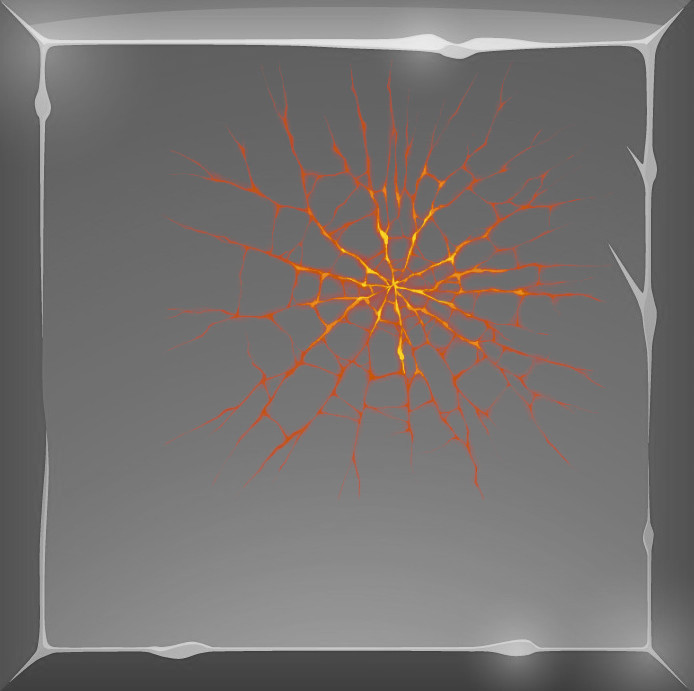
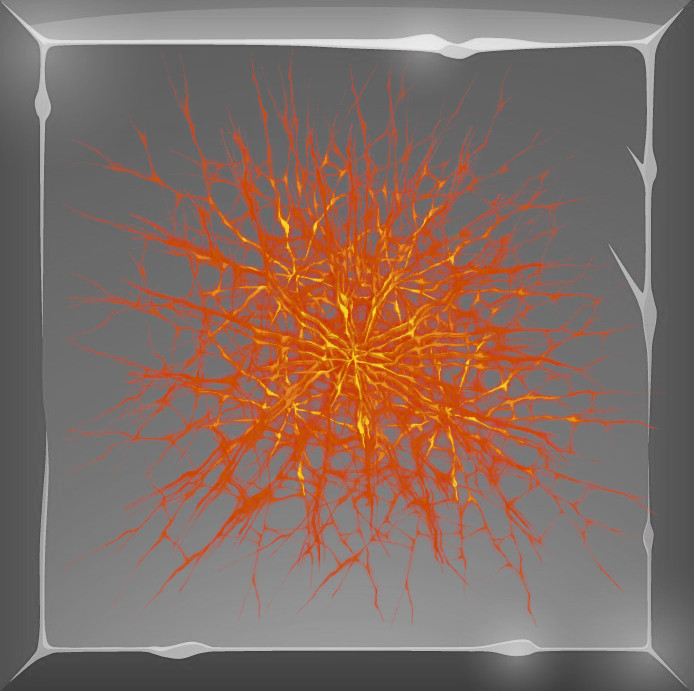
v0.3 - fixed bugs

diff --git a/animation_game.js b/animation_game.js
@@ -9,7 +9,10 @@ const elms_to_picture = {
     "5": "images/gem_silver.png",
     "6": "images/gem_gold.png",
     "-1": "images/ruby.png",
-    "gem": "images/gem.png"
+    "gem": "images/gem.png",
+    "bonus_1": "images/bonus_1.png",
+    "bonus_2": "images/bonus_2.png",
+    "bonus_3": "images/bonus_3.png"
 };
 const elms_shield_to_picture = ["images/shield_0.jpg","images/shield_1.jpg","images/shield_2.jpg","images/shield_3.jpg"];
 
@@ -17,159 +20,40 @@ const shield_field_div = document.getElementById("shield_field");
 const gems_field_div = document.getElementById("gems_field");
 const animation_field_div = document.getElementById("animation_field");
 var field = {};
-var gems_field_show = [];
-var shield_field_show = [];
 var tile_size = 0;
-const wait_time = 1000;
+const wait_time = 300;
 
 var can_play = false;
 
 function update_tile_size() {
     if (field["gems_field"] != undefined) {
         tile_size = Math.min(window.innerHeight / field["n"], window.innerWidth / field["m"]);
-        for (var i = 0; i < gems_field_show.length; ++i) {
-            for (var j = 0; j < gems_field_show[0].length; ++j) {
-                gems_field_show[i][j].style.width = `${tile_size}px`;
-                gems_field_show[i][j].style.height = `${tile_size}px`;
-                gems_field_show[i][j].style.top = `${i * tile_size}px`;
-                gems_field_show[i][j].style.left = `${j * tile_size}px`;
-                shield_field_show[i][j].style.width = `${tile_size}px`;
-                shield_field_show[i][j].style.height = `${tile_size}px`;
-                shield_field_show[i][j].style.top = `${i * tile_size}px`;
-                shield_field_show[i][j].style.left = `${j * tile_size}px`;
-            }
-        }
     }
 }
 
-function _add_picture_from_empty_help(elm, i, j) {
-    elm.style.width = `${tile_size}px`;
-    elm.style.height = `${tile_size}px`;
-    elm.style.top = `${i * tile_size}px`;
-    elm.style.left = `${j * tile_size}px`;
-}
-function add_picture_from_empty(image, i, j, where) {
-    elm = document.createElement("img");
-    elm.src = image;
-    elm.style.width = `${0}px`;
-    elm.style.height = `${0}px`;
-    elm.style.top = `${i * tile_size + tile_size / 2}px`;
-    elm.style.left = `${j * tile_size + tile_size / 2}px`;
-    where.appendChild(elm);
-    return elm;
-}
-
-function _add_picture_from_top_help(elm, i) {
-    elm.style.top = `${i * tile_size}px`;
-}
-function add_picture_from_top(image, i, j, i2, where) {
-    elm = document.createElement("img");
-    elm.src = image;
-    elm.style.width = `${tile_size}px`;
-    elm.style.height = `${tile_size}px`;
-    elm.style.top = `${tile_size * i2}px`;
-    elm.style.left = `${j * tile_size}px`;
-    where.appendChild(elm);
-    return elm;
-}
-
-function _remove_picture(elm, where) {
-    where.removeChild(elm);
-}
-function remove_picture_to_empty(elm, i, j, where) {
-    elm.style.width = `${0}px`;
-    elm.style.height = `${0}px`;
-    elm.style.top = `${i * tile_size + tile_size / 2}px`;
-    elm.style.left = `${j * tile_size + tile_size / 2}px`;
-    setTimeout(() => _remove_picture(elm, where), wait_time * 10);
-}
-function remove_picture_to_bottom(elm, where) {
-    elm.style.top = `${field['n'] * tile_size}px`;
-    setTimeout(() => _remove_picture(elm, where), wait_time * 10);
-}
-
-function update_field() {
-    var crt = recount_field(field);
-    if (crt["triple_flag"] == 1) {
-        move_list = crt["move_list"];
-        console.log(JSON.stringify(move_list))
-        score_list = crt["score_add"];
-        console.log(move_list);
-        for (var i = 0; i < move_list.length; ++i) {
-            if (move_list[i][1][0] == -1 && move_list[i][1][1] == -1) {
-                remove_picture_to_empty(gems_field_show[move_list[i][0][0]][move_list[i][0][1]], move_list[i][0][0], move_list[i][0][1], gems_field_div);
-                gems_field_show[move_list[i][0][0]][move_list[i][0][1]] = undefined;
-            } else if (move_list[i][0][0] == -1 && move_list[i][0][1] == -1) {
-                gems_field_show[move_list[i][1][0]][move_list[i][1][1]] = add_picture_from_empty(elms_to_picture[crt["field"]["gems_field"][move_list[i][1][0]][move_list[i][1][1]].toString()], move_list[i][1][0], move_list[i][1][1], gems_field_div);
-            } else if (move_list[i][1][0] <= -1) {
-                remove_picture_to_bottom(gems_field_show[move_list[i][0][0]][move_list[i][0][1]], gems_field_div);
-                gems_field_show[move_list[i][0][0]][move_list[i][0][1]] = undefined;
-            } else if (move_list[i][0][0] <= -1) {
-                gems_field_show[move_list[i][1][0]][move_list[i][1][1]] = add_picture_from_top(elms_to_picture[crt["field"]["gems_field"][move_list[i][1][0]][move_list[i][1][1]].toString()], move_list[i][1][0], move_list[i][1][1], move_list[i][0][0], gems_field_div);
-            } else {
-                gems_field_show[move_list[i][0][0]][move_list[i][0][1]].style.top = `${(move_list[i][1][0] * tile_size)}px`;
-                gems_field_show[move_list[i][1][0]][move_list[i][1][1]] = gems_field_show[move_list[i][0][0]][move_list[i][0][1]];
-                gems_field_show[move_list[i][0][0]][move_list[i][0][1]] = undefined;
-            }
-        }
-        field = crt["field"];
-        setTimeout(() => update_tile_size(), wait_time);
-        setTimeout(() => update_field(), wait_time);
-    } else if (crt["triple_flag"] == 0) {
-        can_play = true;
-    } else if (crt["triple_flag"] == -1) {
-        field_2 = update_field_from_impossible_to_playable(field);
-        for (var i = 0; i < field["n"]; ++i) {
-            for (var j = 0; j < field["m"]; ++j) {
-                if (typeof(field["gems_field"][i][j]) == "number") {
-                    remove_picture_to_empty(gems_field_show[i][j], i, j, gems_field_div);
-                    gems_field_show[i][j] = undefined;
-                    gems_field_show[i][j] = add_picture_from_empty(elms_to_picture[field_2["gems_field"][i][j].toString()], i, j, gems_field_div);
-                }
-            }
-        }
-        field = field_2;
-        setTimeout(() => update_tile_size(), wait_time / 1.5);
-    }
-}
-
-function run_game(field_get) {
-    field = run_field(field_get);
+function play_game(field_base) {
+    field = run_field(field_base);
     update_tile_size();
-    gems_field_show = [];
-    shield_field_show = [];
     for (var i = 0; i < field["n"]; ++i) {
-        gems_field_show.push([]);
-        shield_field_show.push([]);
         for (var j = 0; j < field["m"]; ++j) {
-            if (field["gems_field"][i][j] != "empty") {
-                shield_field_show[i].push(add_picture_from_empty(elms_shield_to_picture[field["shield_field"][i][j]], i, j, shield_field_div));
-                gems_field_show[i].push(add_picture_from_top(elms_to_picture[field["gems_field"][i][j].toString()], i, j, i-field["n"], gems_field_div));
-            } else {
-                gems_field_show[i].push(null);
-            }
+            var elm2 = document.createElement("img");
+            elm2.src = elms_to_picture[field["gems_field"][i][j]];
+            elm2.style.width = `${tile_size - 6}px`;
+            elm2.style.height = `${tile_size - 6}px`;
+            elm2.style.top = `${i * tile_size + 3}px`;
+            elm2.style.left = `${j * tile_size + 3}px`;
+            gems_field_div.appendChild(elm2);
+
+            var elm = document.createElement("img");
+            elm.src = elms_shield_to_picture[field["shield_field"][i][j]];
+            elm.style.width = `${tile_size}px`;
+            elm.style.height = `${tile_size}px`;
+            elm.style.top = `${i * tile_size}px`;
+            elm.style.left = `${j * tile_size}px`;
+            shield_field_div.appendChild(elm);
         }
     }
-    setTimeout(() => {
-        for (var i = 0; i < field["n"]; ++i) {
-            for (var j = 0; j < field["m"]; ++j) {
-                if (field["gems_field"][i][j] != "empty") {
-                    _add_picture_from_empty_help(shield_field_show[i][j], i, j);
-                }
-            }
-        }
-    }, 100);
-    setTimeout(() => {
-        for (var i = 0; i < field["n"]; ++i) {
-            for (var j = 0; j < field["m"]; ++j) {
-                if (field["gems_field"][i][j] != "empty") {
-                    _add_picture_from_top_help(gems_field_show[i][j], i);
-                }
-            }
-        }
-        setTimeout(() => update_field(), wait_time * 1.5);
-    }, wait_time);
 }
 
-run_game(get_empty_field(8, 8));
+play_game(get_empty_field(8, 8, 7, 0));
 addEventListener("resize", update_tile_size);

diff --git a/style.css b/style.css
@@ -1,8 +1,8 @@
 div {
 	position: fixed;
-	transition: all 1s ease;
+	transition: all 0.3s ease;
 }
 img {
 	position: fixed;
-	transition: all 1s ease;
+	transition: all 0.3s ease;
 }

diff --git a/field_lib.js b/field_lib.js
@@ -1,4 +1,4 @@
-var score_rules = {"move": 0, "pop_shield": 20, "stone_fall": 200, "bomb_fall": 300, "bomb_boom": -2100, "bonus_1": 400, "bonus_2": 700, "bonus_3": 1200, "ruby_get": 1000, "ruby_fall": -1000, "ruby_break": 3000}; // bonus_1 - for 4 connected, removes available 3x3; bonus_2 - for 5 connected, removes available row and column; bonus_3 - for 3000+ score - removes some cells with gems; ruby - for 6-7 connected, like a stone can fall and can destroy like a gems; ruby has -1 number;
+var score_rules = {"move": 0, "pop_shield": 20, "stone_fall": 200, "bomb_fall": 300, "bomb_boom": -2100, "bonus_1": 400, "bonus_2": 700, "bonus_3": 1200, "ruby_get": 1000, "ruby_fall": -1000, "ruby_break": 5000}; // bonus_1 - for 4 connected, removes available 3x3; bonus_2 - for 5 connected, removes available row and column; bonus_3 - for 3000+ score - removes some cells with gems; ruby - for 6-7 connected, like a stone can fall and can destroy like a gems; ruby has -1 number;
 function get_empty_field(n, m, gems_number = 4, shield_number = 0, stones_number = 1, stones_random = 5, has_bombs = true) {
     var field = [];
     var shield = [];